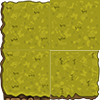
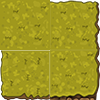
1, 3 локация добавлены

diff --git a/game.py b/game.py
@@ -136,6 +136,10 @@ def generate_level(level):
                     Tile('walklandup', x, y)
                 elif level_name == '2':
                     Tile('walklandleft', x, y)
+                elif level_name == '3':
+                    Tile('walklandleft', x, y)
+                elif level_name == '1':
+                    Tile('walklandup', x, y)
                 xx = x
                 yy = y
             elif level[y][x] == 'S':
@@ -188,6 +192,8 @@ def generate_level(level):
             elif level[y][x] == 'J':
                 Tile('wallstones_2', x, y)
             elif level[y][x] == 'K':
+                if level_name == '3':
+                    Tile('walklandleft', x, y)
                 Tile('walkgreenery_1', x, y)
             elif level[y][x] == 'L':
                 Tile('walkgreenery_2', x, y)
@@ -244,6 +250,8 @@ def generate_level(level):
                 Tile('walldecor_16', x, y)
             elif level[y][x] == "U":
                 Tile('walldecor_4', x, y)
+            elif level[y][x] == "$":
+                Tile('walklandleft', x, y)
     new_player = Player(xx, yy)
     return new_player, xx, yy
 
@@ -462,6 +470,67 @@ while True:
                                 player.rect.x -= 1600
                                 player.rect.y -= 600
                                 marx2 = marx - 0.2
+                            elif level[int(mary)][int(marx-1)] == 'y':
+                                level_name = '3'
+                                level = load_level(level_name)
+                                all_sprites = pygame.sprite.Group()
+                                wall_group = pygame.sprite.Group()
+                                player_group = pygame.sprite.Group()
+                                screen.blit(loading_image, (0, 0))
+                                pygame.display.flip()
+                                player = generate_level(level)
+                                marx = player[1]
+                                marx += 0.6
+                                marx2 = marx - 0.2
+                                mary = player[2] + 0.8
+                                player = player[0]
+                            elif level[int(mary+1)][int(marx)] == 'y':
+                                level_name = '1'
+                                level = load_level(level_name)
+                                all_sprites = pygame.sprite.Group()
+                                wall_group = pygame.sprite.Group()
+                                player_group = pygame.sprite.Group()
+                                screen.blit(loading_image, (0, 0))
+                                pygame.display.flip()
+                                player = generate_level(level)
+                                marx = player[1]
+                                marx += 0.6
+                                marx2 = marx - 0.2
+                                mary = player[2] + 0.8
+                                player = player[0]
+                        elif level_name == '3':
+                            if level[int(mary)][int(marx+1)] == 'y':
+                                level_name = '2'
+                                level = load_level(level_name)
+                                all_sprites = pygame.sprite.Group()
+                                wall_group = pygame.sprite.Group()
+                                player_group = pygame.sprite.Group()
+                                screen.blit(loading_image, (0, 0))
+                                pygame.display.flip()
+                                player = generate_level(level)
+                                marx = player[1]
+                                marx += 0.6 - 55
+                                marx2 = marx - 0.2
+                                mary = player[2] + 0.8
+                                player = player[0]
+                                player.rect.x -= 5500
+                        elif level_name == '1':
+                            if level[int(mary-1)][int(marx)] == 'y':
+                                level_name = '2'
+                                level = load_level(level_name)
+                                all_sprites = pygame.sprite.Group()
+                                wall_group = pygame.sprite.Group()
+                                player_group = pygame.sprite.Group()
+                                screen.blit(loading_image, (0, 0))
+                                pygame.display.flip()
+                                player = generate_level(level)
+                                marx = player[1]
+                                marx += 0.6 - 28
+                                marx2 = marx - 0.2
+                                mary = player[2] + 0.8 + 5
+                                player = player[0]
+                                player.rect.x -= 2800
+                                player.rect.y += 500
             if event.type == pygame.KEYUP:
                 if event.key == pygame.K_UP:
                     g_up = False
